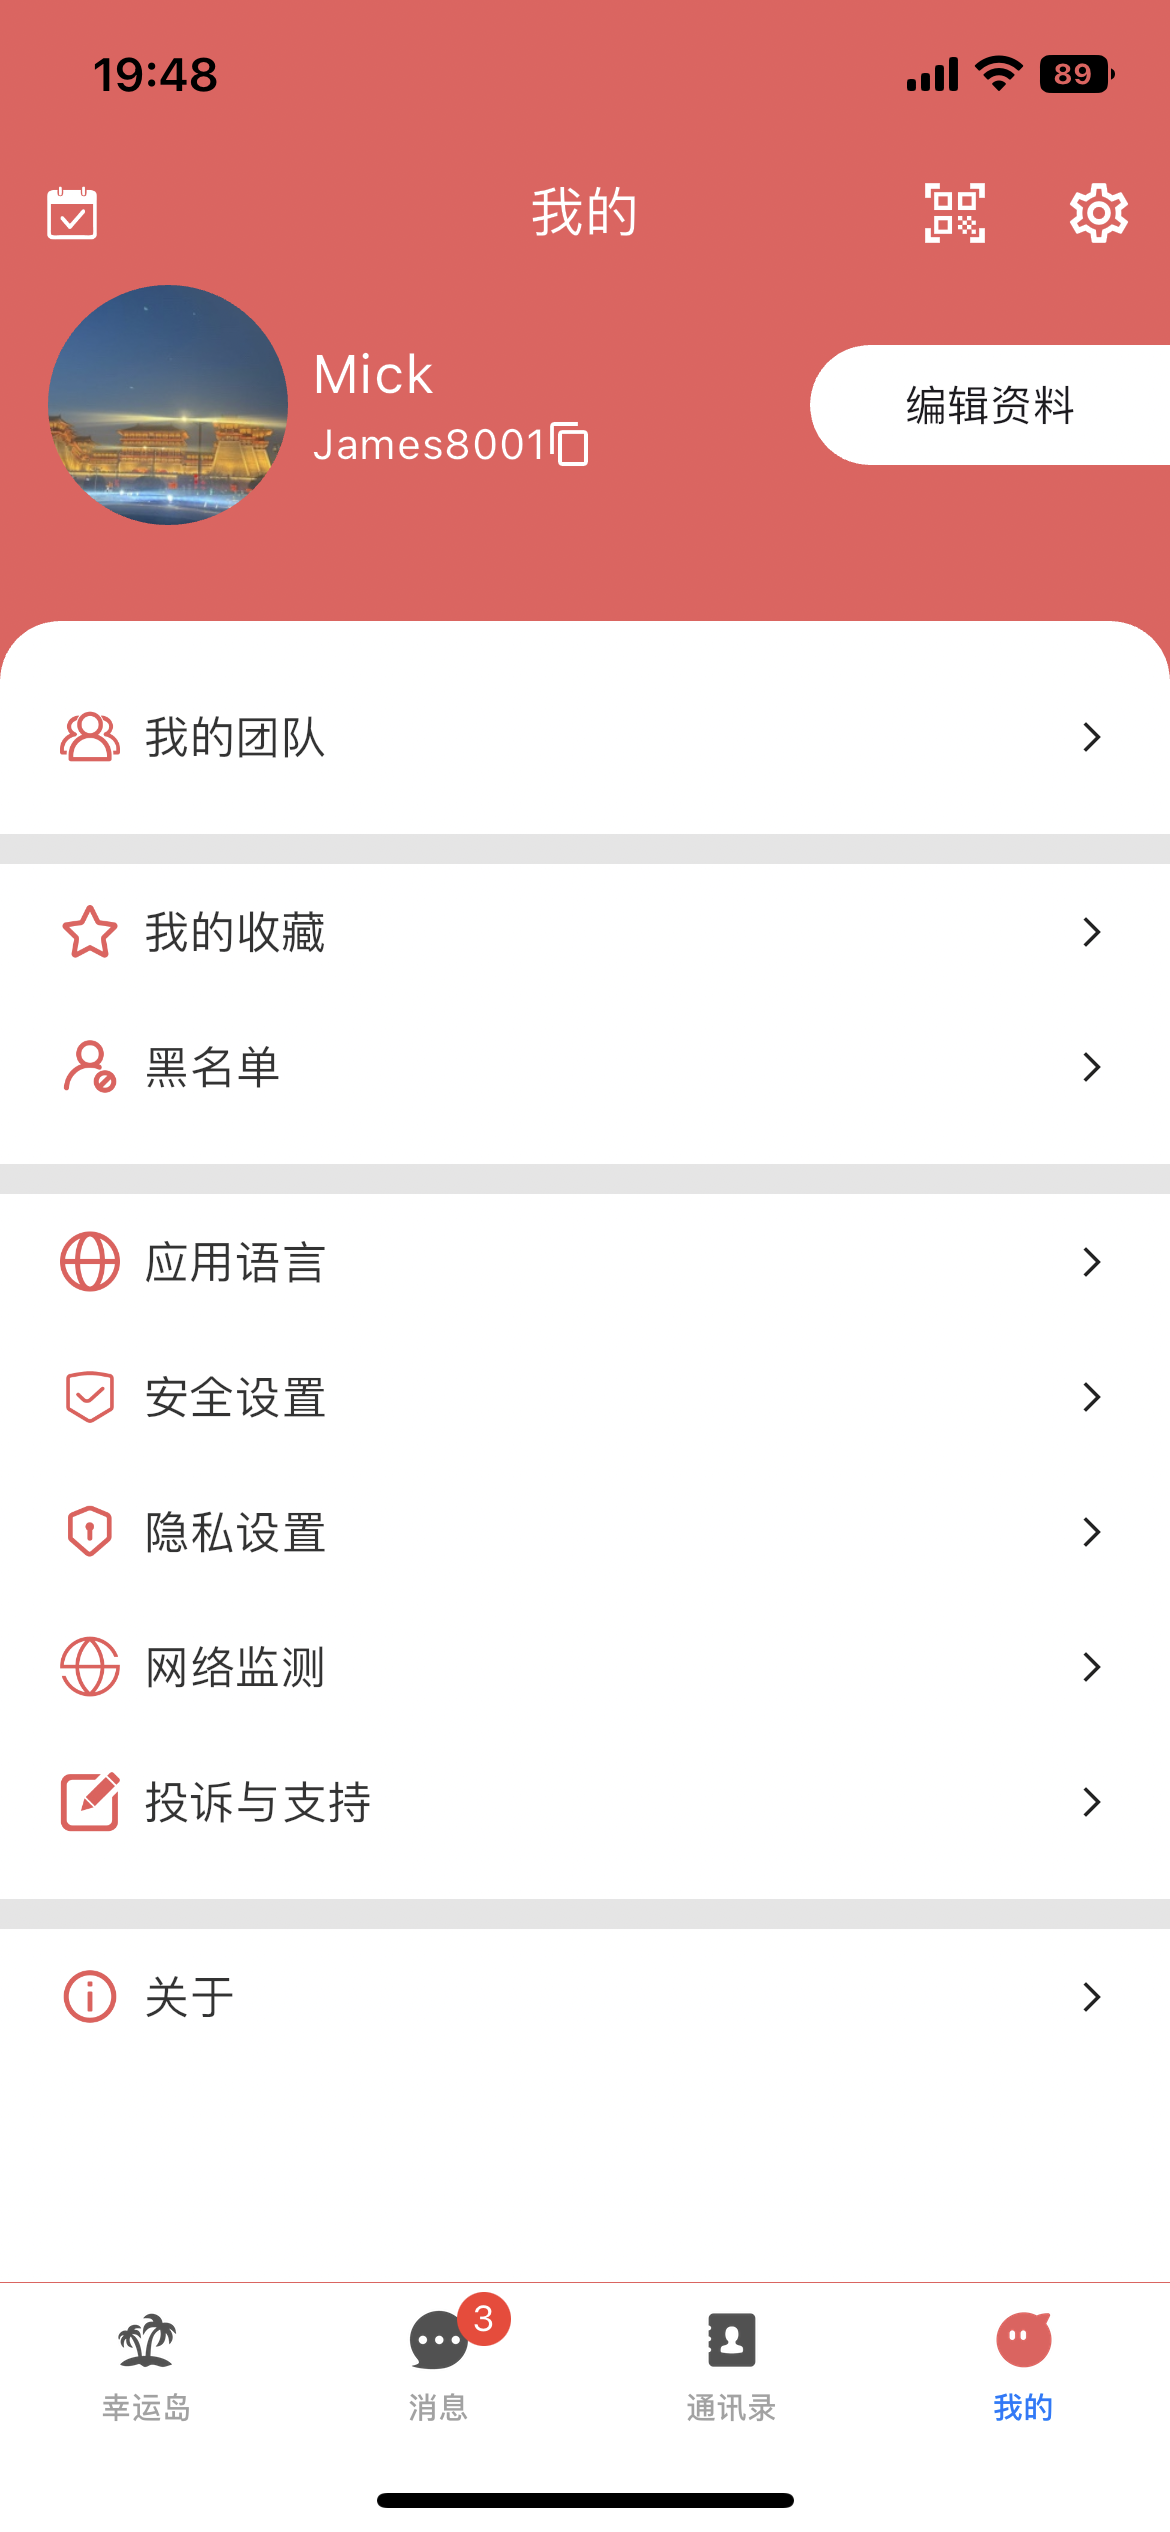
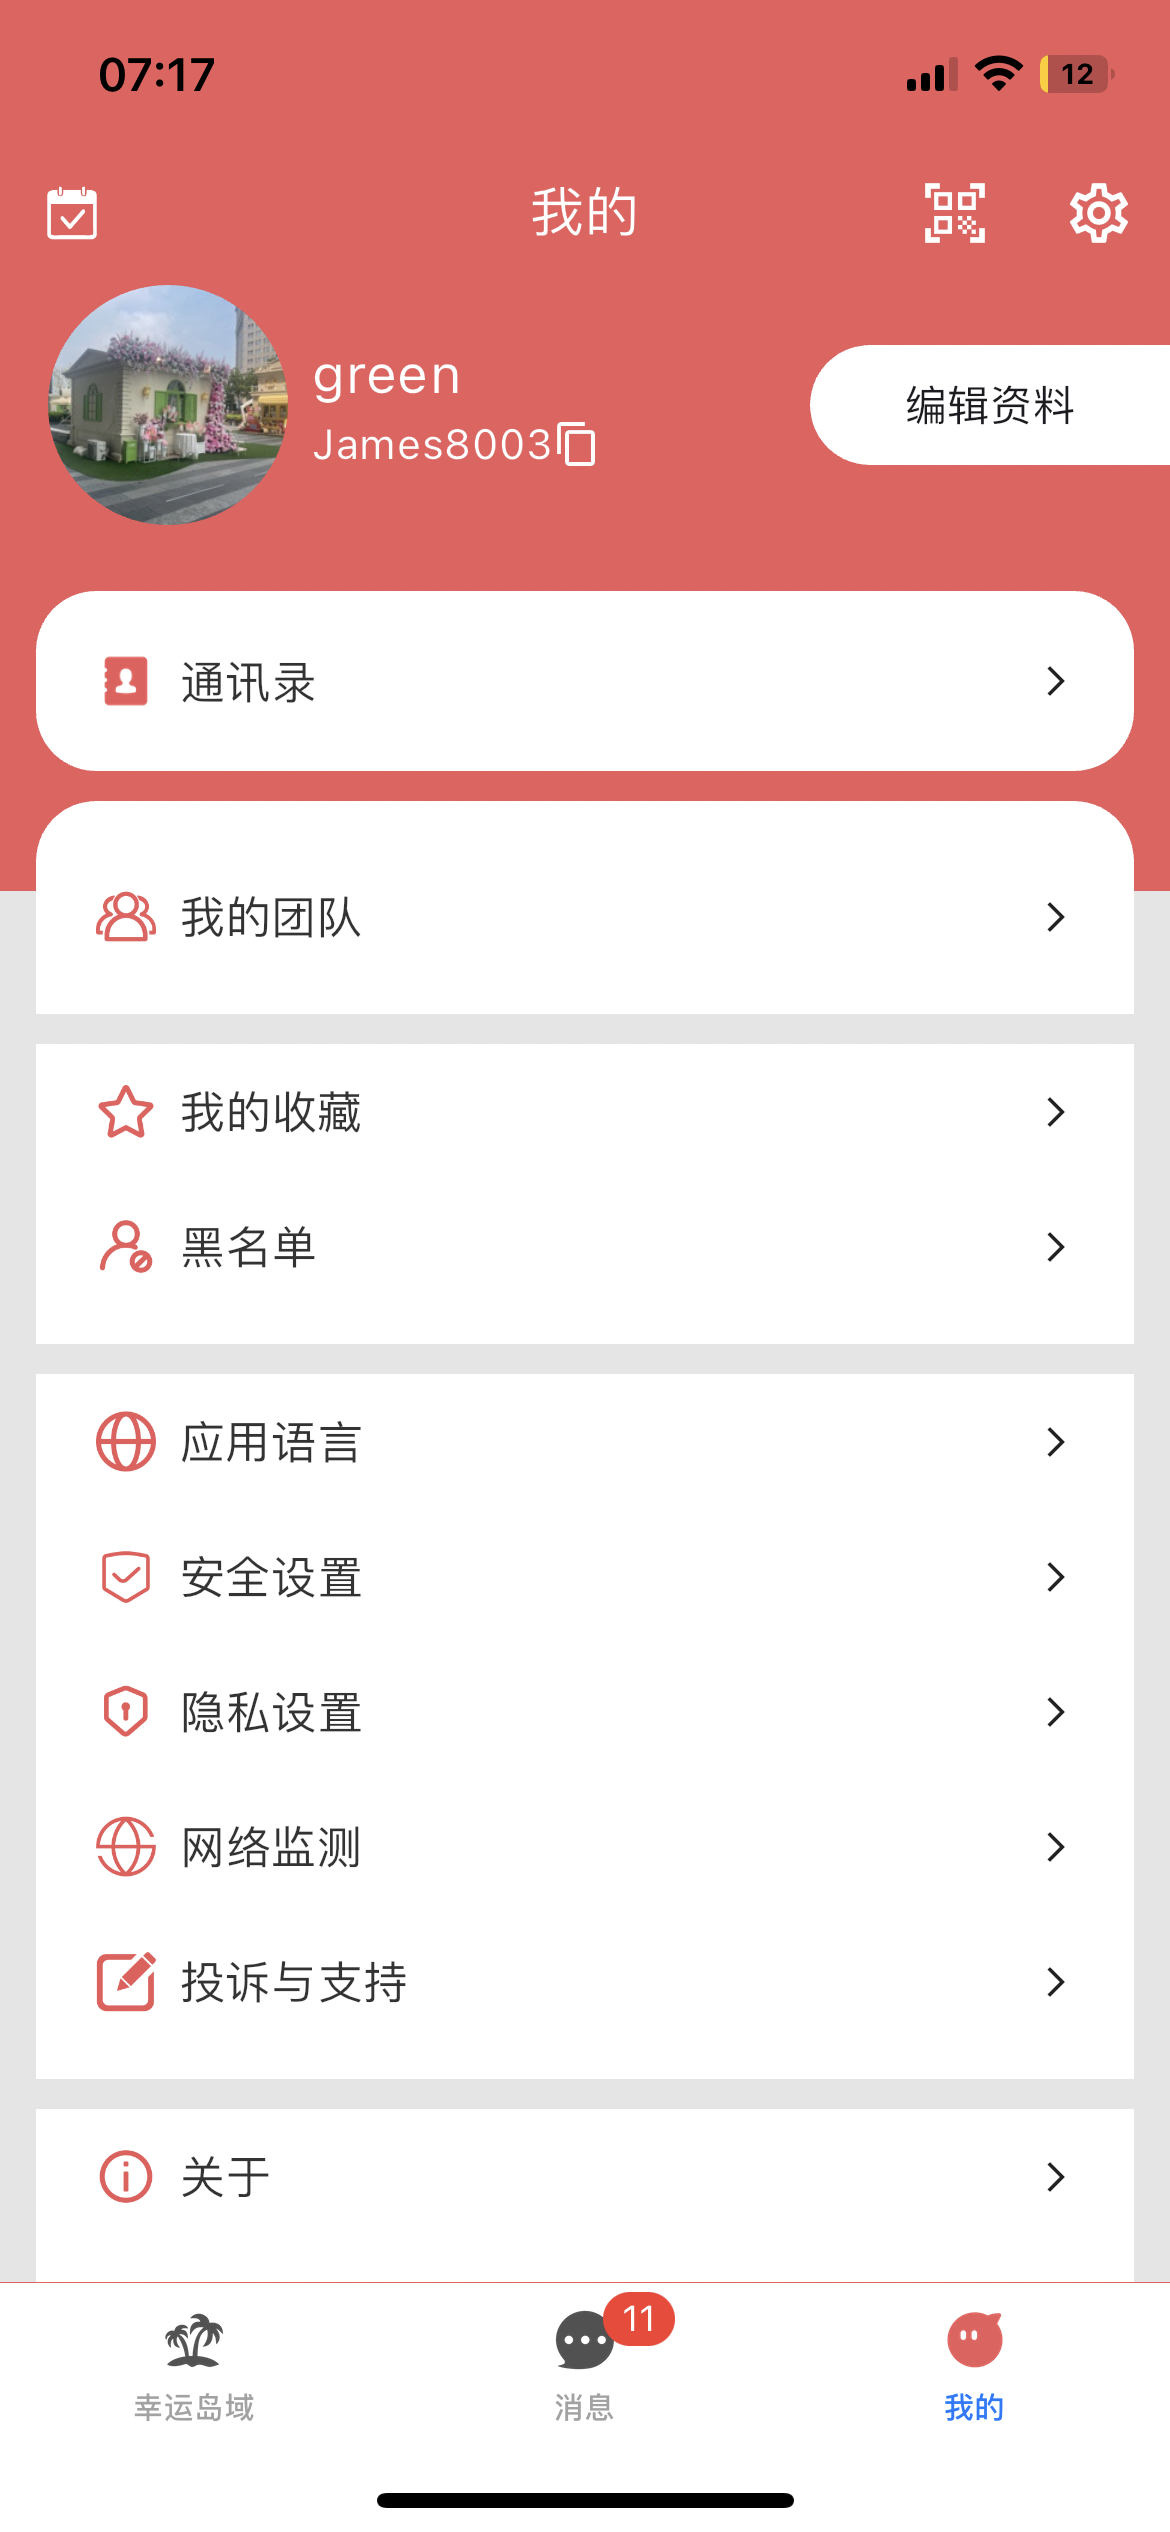
test

diff --git a/web/index.html b/web/index.html
@@ -3,8 +3,8 @@
 <head>
   <meta charset="UTF-8" />
   <meta name="viewport" content="width=device-width, initial-scale=1" />
-  <meta name="description" content="幸运岛 — 安全、稳定的即时通讯应用。支持单聊、群聊、音视频通话与多终端同步。" />
-  <title>幸运岛 — 官网</title>
+  <meta name="description" content="幸运岛域 — 安全、稳定的即时通讯应用。支持单聊、群聊、音视频通话与多终端同步。" />
+  <title>幸运岛域 — 官网</title>
   <link rel="icon" href="assets/logo.png" type="image/png" />
   <link rel="stylesheet" href="styles.css" />
 </head>
@@ -13,7 +13,7 @@
     <div class="inner">
       <a class="brand" href="index.html">
         <img class="brand-logo" src="assets/logo.png" width="40" height="40" alt="" decoding="async" />
-        <span class="brand-text">幸运岛</span>
+        <span class="brand-text">幸运岛域</span>
       </a>
       <nav class="nav-links">
         <a href="index.html">首页</a>
@@ -25,8 +25,8 @@
 
   <main>
     <section class="hero wrap">
-      <img class="hero-logo" src="assets/logo.png" width="112" height="112" alt="幸运岛" decoding="async" />
-      <h1>幸运岛</h1>
+      <img class="hero-logo" src="assets/logo.png" width="112" height="112" alt="幸运岛域" decoding="async" />
+      <h1>幸运岛域</h1>
       <p class="lead">
         面向 iOS 的即时通讯应用，快速、稳定、安全。支持单聊与群聊、多媒体消息、语音与视频通话，以及消息通知与离线同步，让沟通随时在线。
       </p>
@@ -104,7 +104,7 @@
         <a href="index.html">首页</a>
         <a href="terms.html">用户协议</a>
         <a href="privacy.html">隐私政策</a>
-        <p>© 幸运岛</p>
+        <p>© 幸运岛域</p>
       </footer>
     </section>
   </main>

diff --git a/web/privacy.html b/web/privacy.html
@@ -3,7 +3,7 @@
 <head>
   <meta charset="UTF-8" />
   <meta name="viewport" content="width=device-width, initial-scale=1" />
-  <title>隐私政策 — 幸运岛</title>
+  <title>隐私政策 — 幸运岛域</title>
   <link rel="icon" href="assets/logo.png" type="image/png" />
   <link rel="stylesheet" href="styles.css" />
 </head>
@@ -12,7 +12,7 @@
     <div class="inner">
       <a class="brand" href="index.html">
         <img class="brand-logo" src="assets/logo.png" width="40" height="40" alt="" decoding="async" />
-        <span class="brand-text">幸运岛</span>
+        <span class="brand-text">幸运岛域</span>
       </a>
       <nav class="nav-links">
         <a href="index.html">官网首页</a>
@@ -27,7 +27,7 @@
     <p class="sub">更新日期：2026年5月18日　生效日期：2026年5月18日</p>
 
     <p>
-      欢迎使用「幸运岛」即时通讯服务（以下简称“本服务”）。我们重视您的个人信息保护，并严格按照相关法律法规处理用户数据。请在使用前认真阅读本政策。
+      欢迎使用「幸运岛域」即时通讯服务（以下简称“本服务”）。我们重视您的个人信息保护，并严格按照相关法律法规处理用户数据。请在使用前认真阅读本政策。
     </p>
 
     <h2>一、我们收集的信息</h2>
@@ -100,7 +100,7 @@
       <a href="index.html">官网首页</a>
       <a href="terms.html">用户协议</a>
       <a href="privacy.html">隐私政策</a>
-      <p>© 幸运岛</p>
+      <p>© 幸运岛域</p>
     </footer>
   </main>
 </body>

diff --git a/web/terms.html b/web/terms.html
@@ -3,7 +3,7 @@
 <head>
   <meta charset="UTF-8" />
   <meta name="viewport" content="width=device-width, initial-scale=1" />
-  <title>用户协议 — 幸运岛</title>
+  <title>用户协议 — 幸运岛域</title>
   <link rel="icon" href="assets/logo.png" type="image/png" />
   <link rel="stylesheet" href="styles.css" />
 </head>
@@ -12,7 +12,7 @@
     <div class="inner">
       <a class="brand" href="index.html">
         <img class="brand-logo" src="assets/logo.png" width="40" height="40" alt="" decoding="async" />
-        <span class="brand-text">幸运岛</span>
+        <span class="brand-text">幸运岛域</span>
       </a>
       <nav class="nav-links">
         <a href="index.html">官网首页</a>
@@ -27,7 +27,7 @@
     <p class="sub">更新日期：2026年5月18日　生效日期：2026年5月18日</p>
 
     <p>
-      欢迎使用「幸运岛」即时通讯及相关软件与服务（以下简称「本服务」）。请您务必审慎阅读、充分理解本协议各条款，特别是免除或限制责任、争议解决等条款。您注册、登录或使用本服务，即视为已阅读并同意接受本协议约束。
+      欢迎使用「幸运岛域」即时通讯及相关软件与服务（以下简称「本服务」）。请您务必审慎阅读、充分理解本协议各条款，特别是免除或限制责任、争议解决等条款。您注册、登录或使用本服务，即视为已阅读并同意接受本协议约束。
     </p>
 
     <h2>一、服务内容</h2>
@@ -93,7 +93,7 @@
       <a href="index.html">官网首页</a>
       <a href="terms.html">用户协议</a>
       <a href="privacy.html">隐私政策</a>
-      <p>© 幸运岛</p>
+      <p>© 幸运岛域</p>
     </footer>
   </main>
 </body>

diff --git a/web/styles.css b/web/styles.css
@@ -1,4 +1,4 @@
-/* Shared styles — 幸运岛 文档页 */
+/* Shared styles — 幸运岛域 文档页 */
 :root {
   --bg: #f5f8ff;
   --surface: #ffffff;